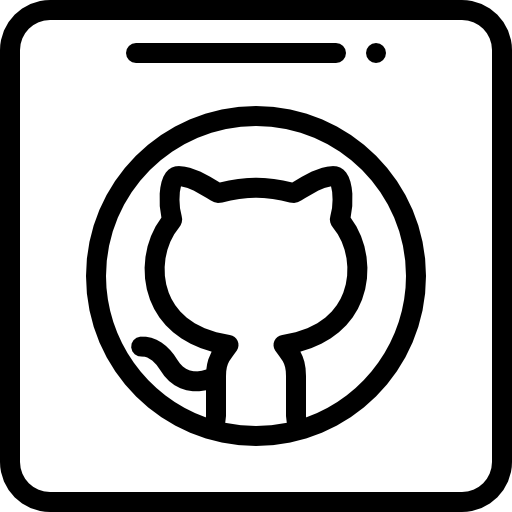
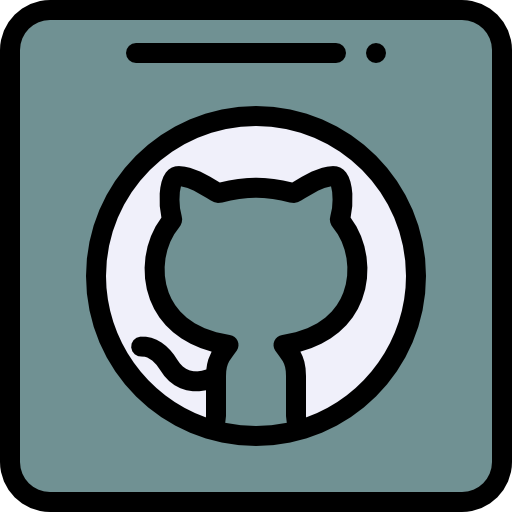
cambio de íconos de redes

diff --git a/css/styles.css b/css/styles.css
@@ -483,9 +483,9 @@ body{
   }
   .redes{
     margin: 2rem
+    background-color: white;
   }
   .red{
       width: 70px;
       height: 70px;
-  }
 }
